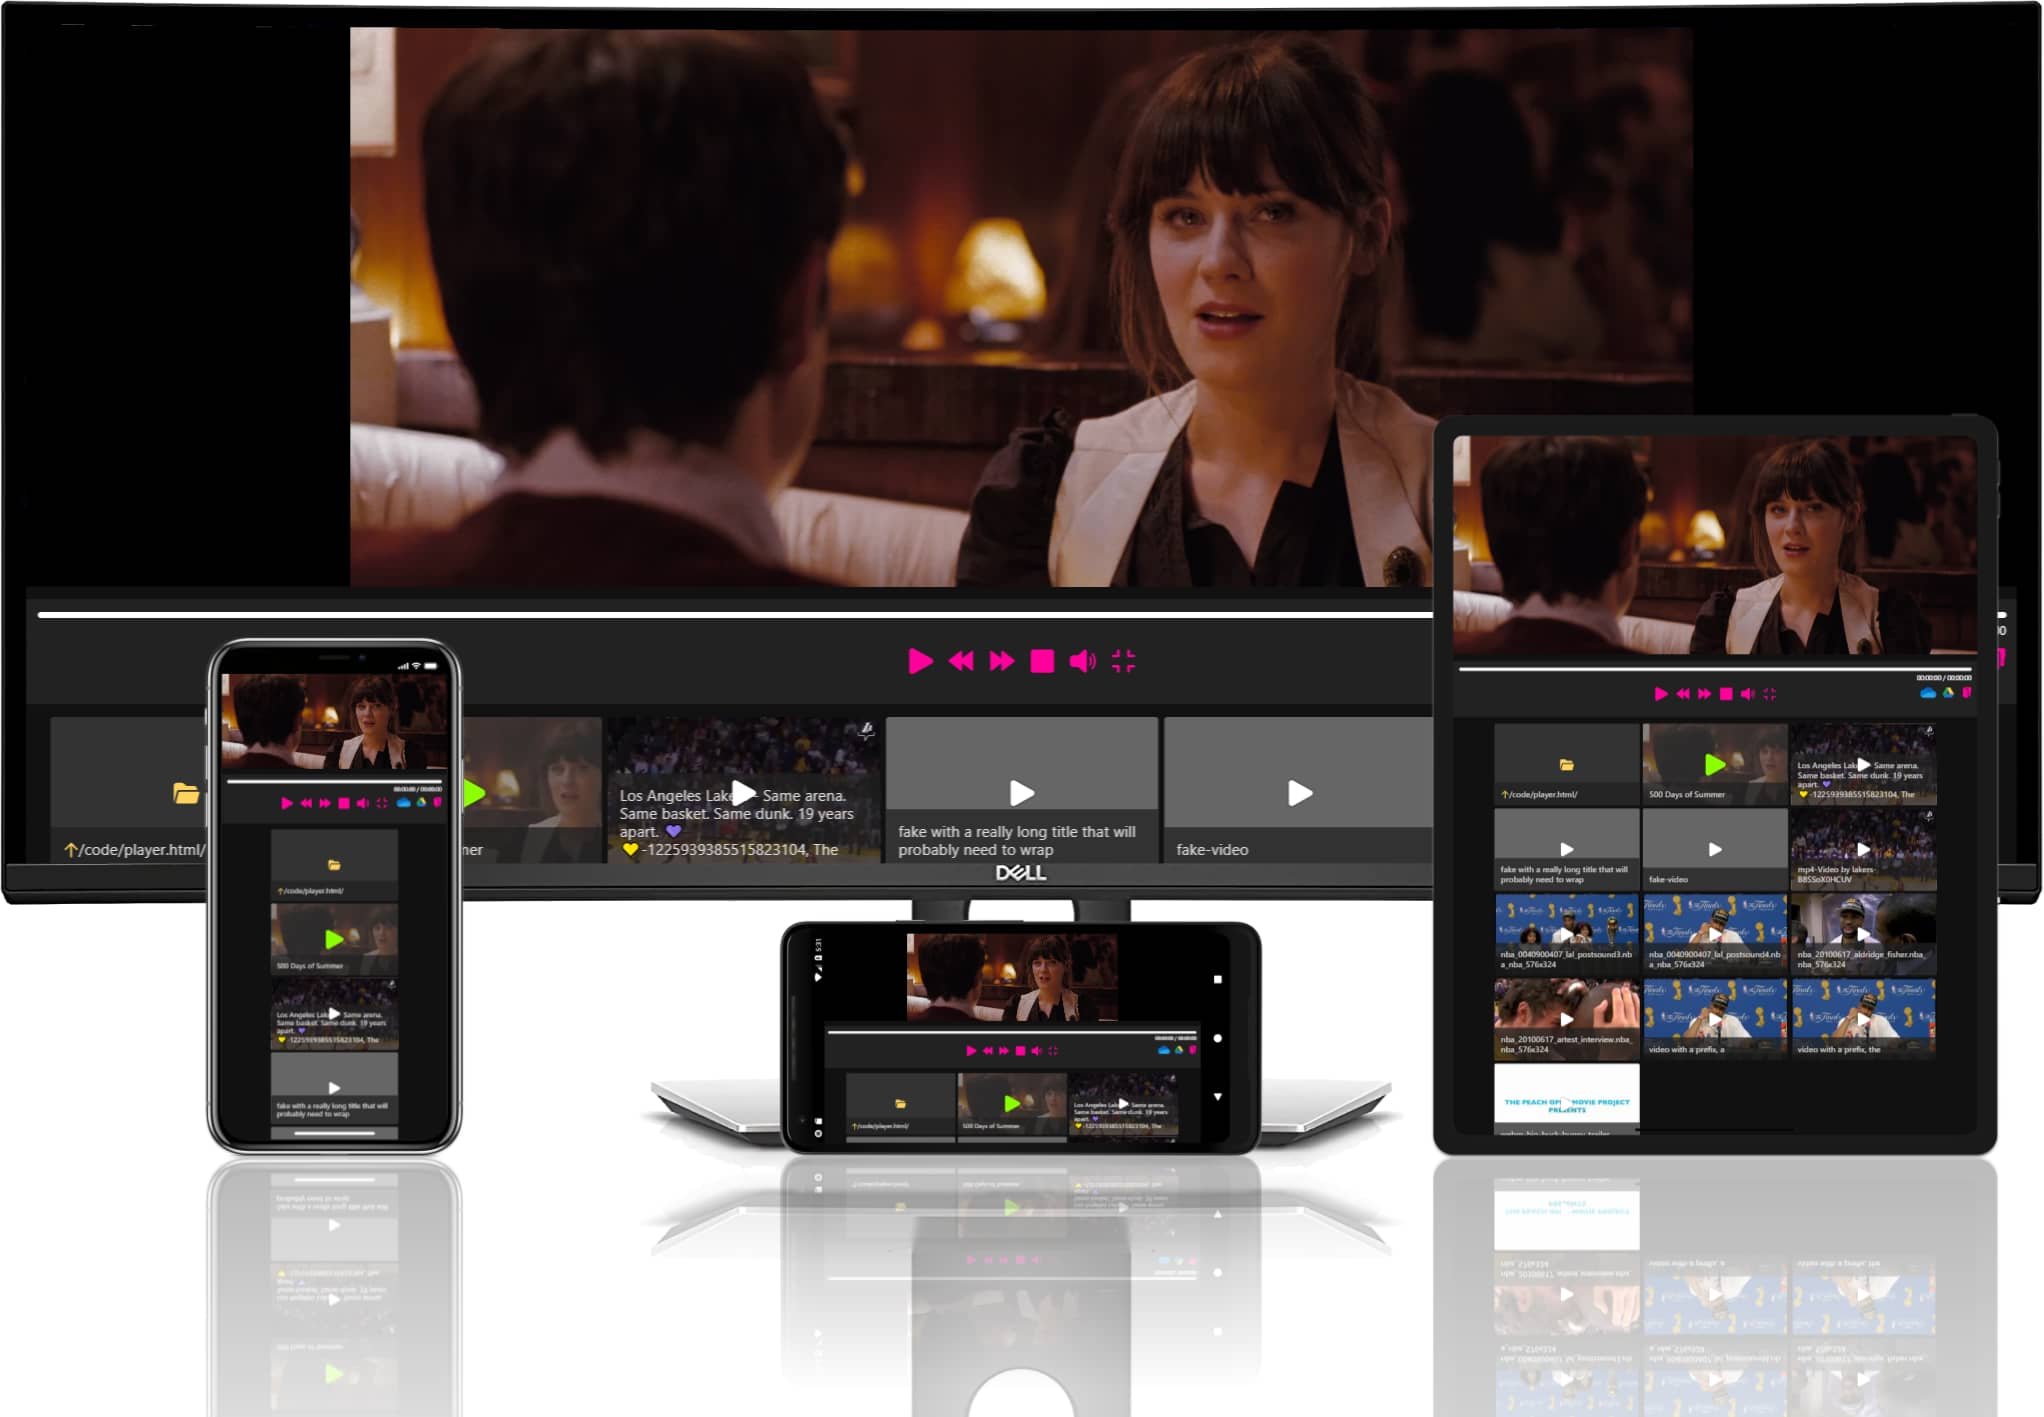
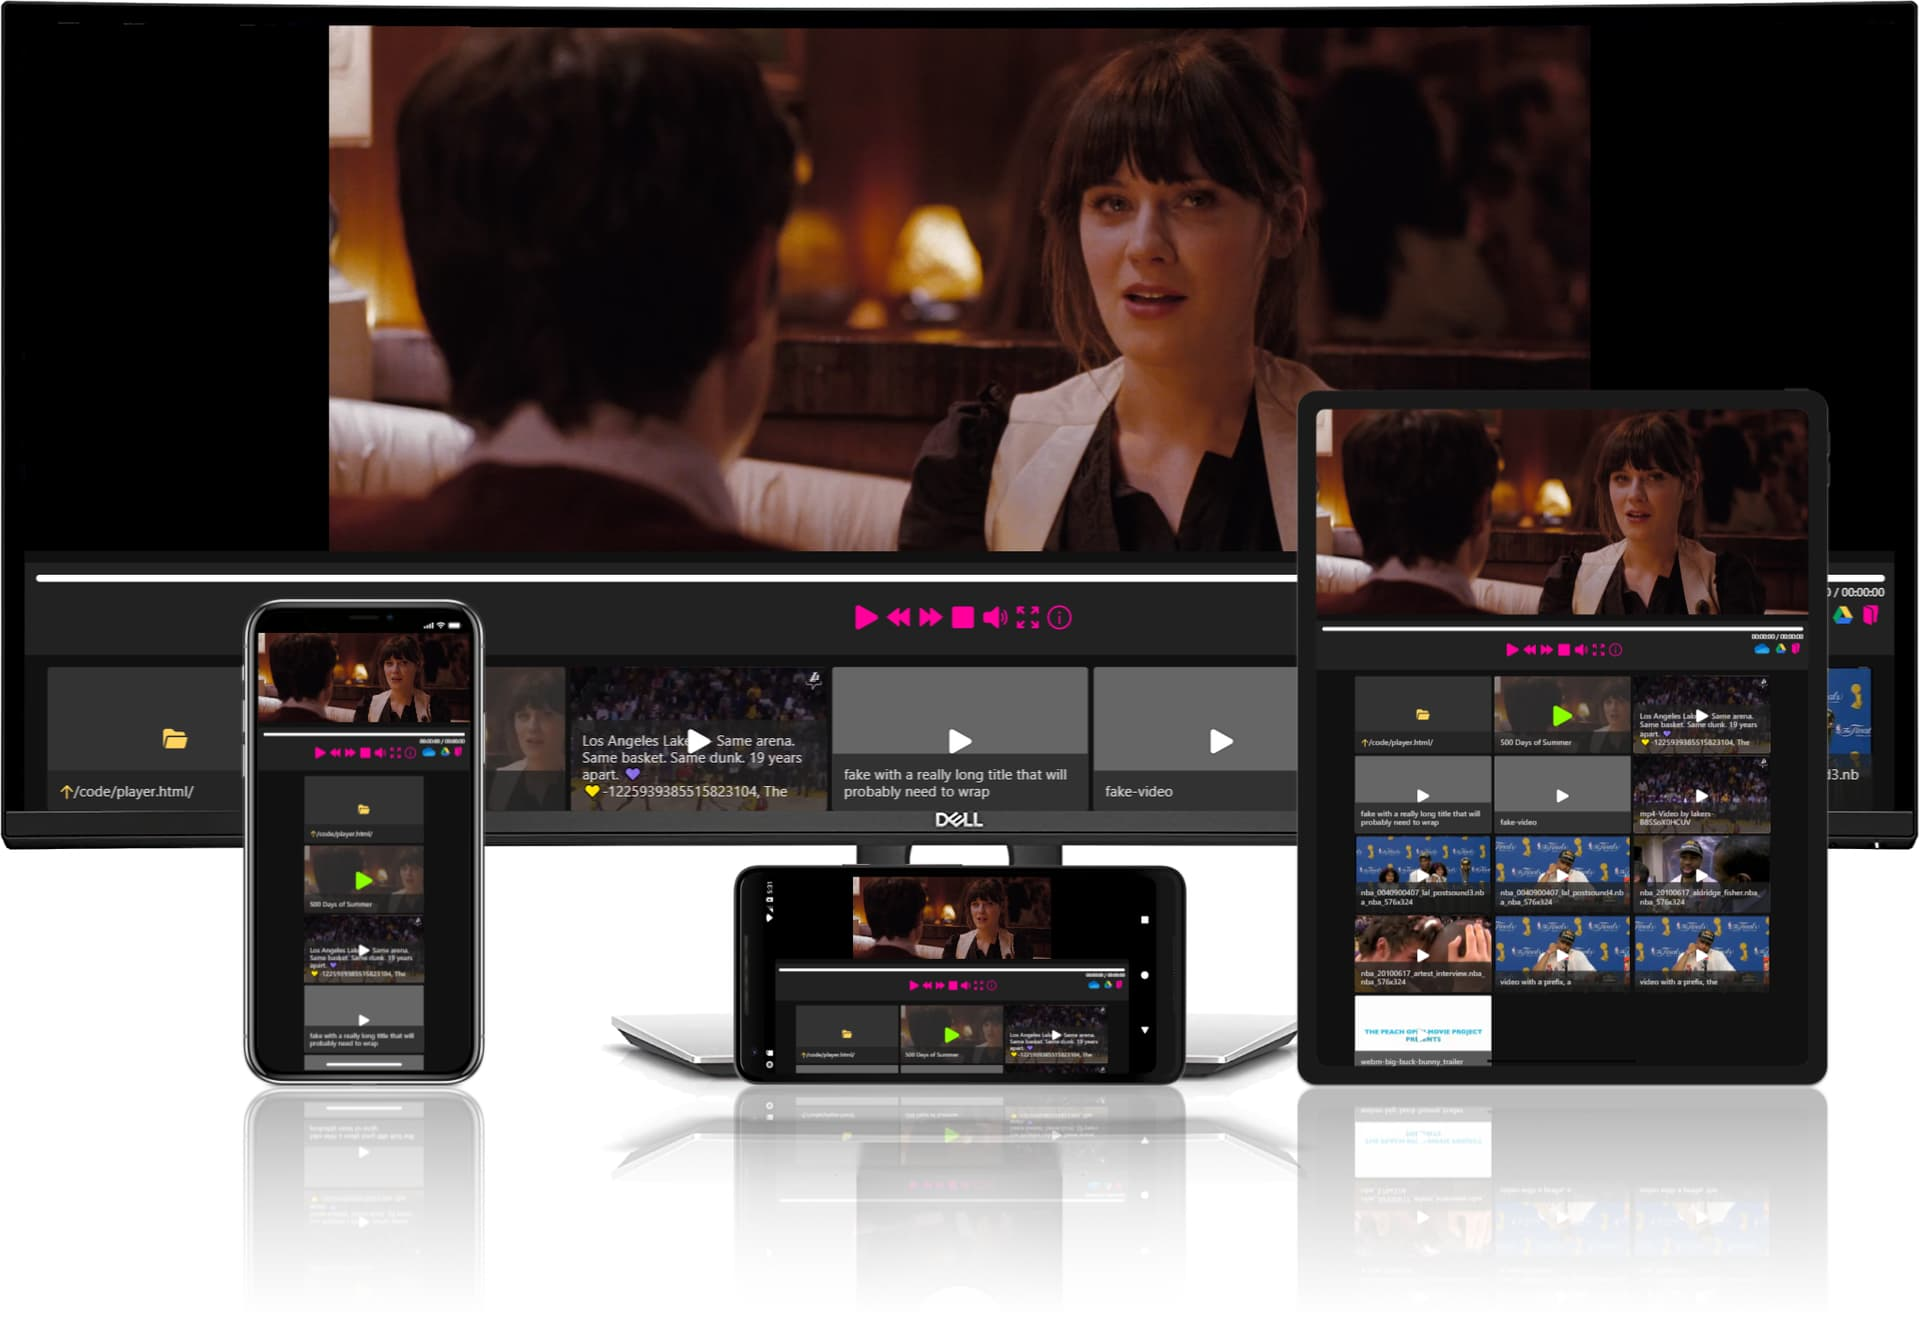
Updated composite image in README.md

diff --git a/README.md b/README.md
@@ -2,7 +2,7 @@
 One file drop-in video player web app for using MP4 video files served using basic directory listing.
 
 ![player.html in action](https://user-images.githubusercontent.com/455424/91237221-df3ad080-e6ee-11ea-83c7-f13be539c73e.jpg)
-![player.html on all of your devices](https://user-images.githubusercontent.com/455424/93652405-bd6cfa80-f9c9-11ea-8b80-759286903e4f.jpg)
+![player.html on all of your devices](https://user-images.githubusercontent.com/455424/94053432-2e782d80-fd8f-11ea-801c-b968cd1715c2.jpg)
 
 ## Usage
 `player.html` is designed to be a drop-in video player that does not require any configuration or other files.
